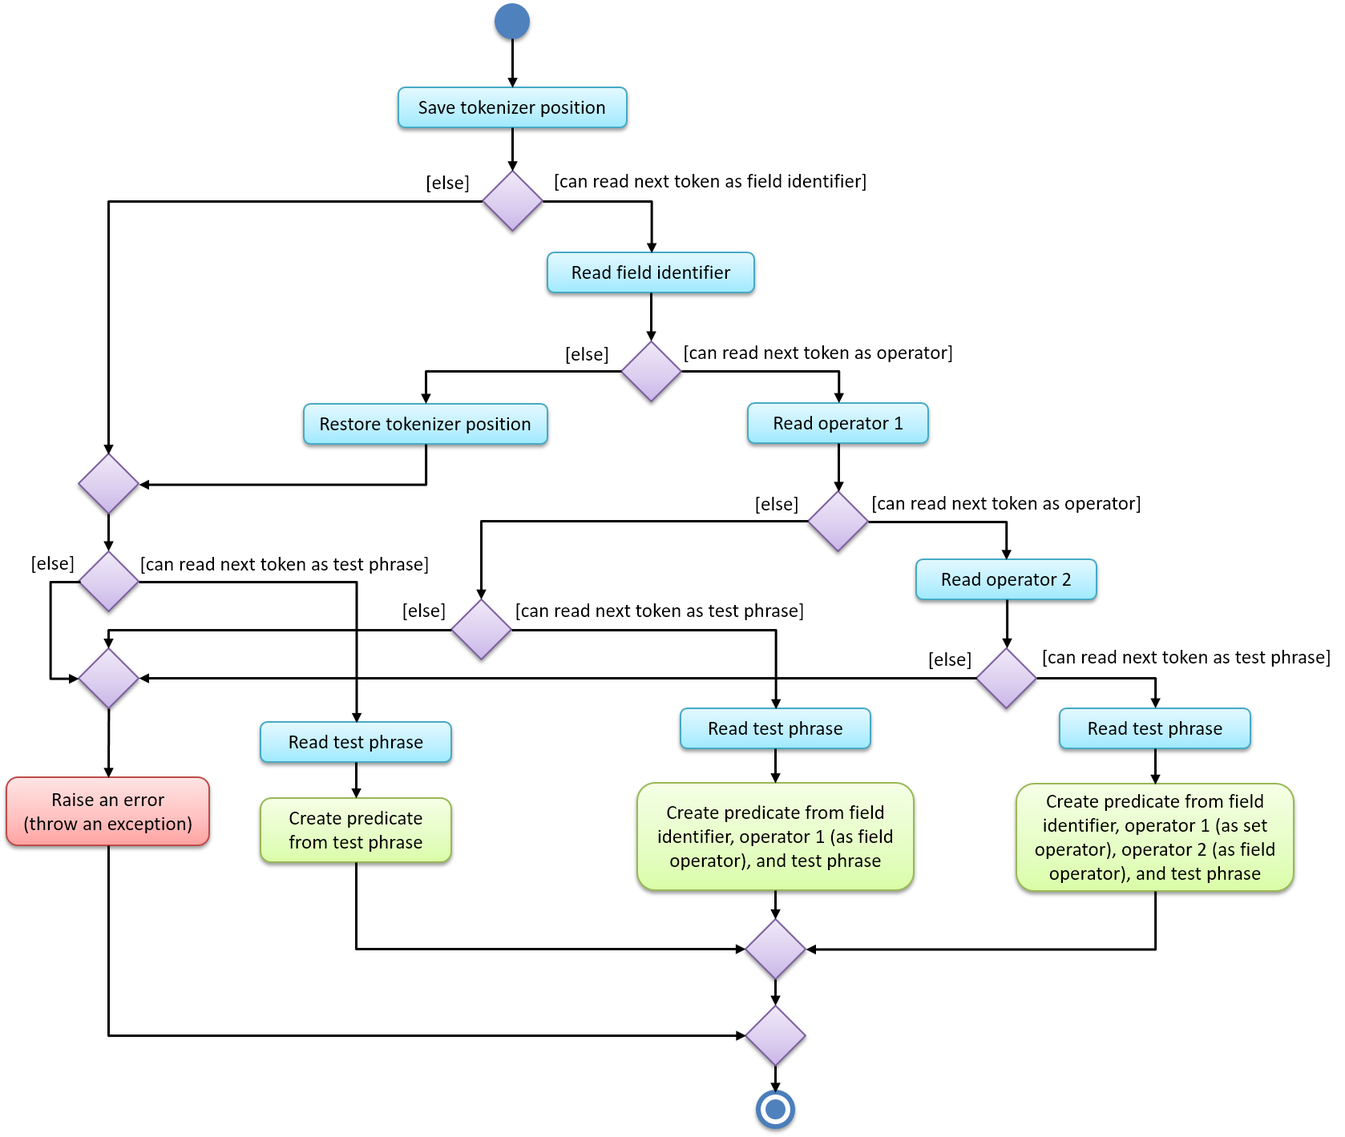
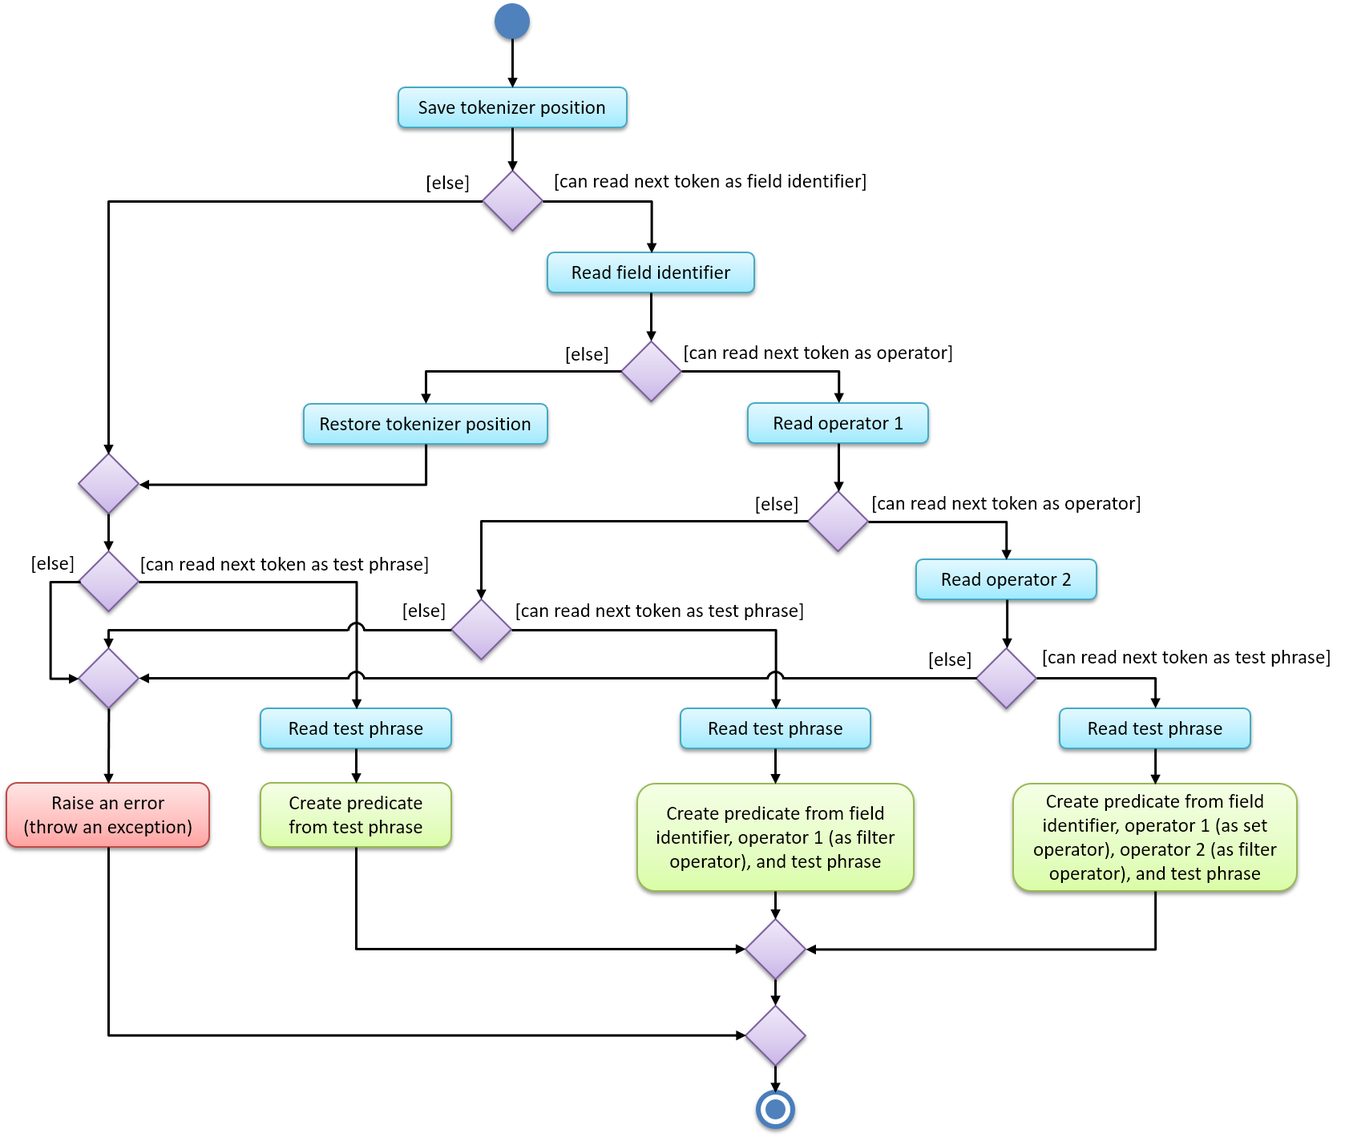
Rebuild pages at 355f86e717731fc7a78a83dbf8b46f0d04fe23be

diff --git a/DeveloperGuide.html b/DeveloperGuide.html
@@ -922,6 +922,7 @@ If the <code>currentStatePointer</code> is at index 0, pointing to the initial d
 <div class="content">
 <img src="images/UndoRedoSequenceDiagram.png" alt="UndoRedoSequenceDiagram" width="800">
 </div>
+<div class="title">Figure 10. Sequence diagram for <code>undo</code></div>
 </div>
 <div class="paragraph">
 <p>The <code>redo</code> command does the opposite&#8201;&#8212;&#8201;it calls <code>Model#redoTaskCollection()</code>, which shifts the <code>currentStatePointer</code> once to the right, pointing to the previously undone state, and restores the deadline manager to that state.</p>
@@ -961,6 +962,7 @@ If the <code>currentStatePointer</code> is at index <code>taskCollectionStateLis
 <div class="content">
 <img src="images/UndoRedoActivityDiagram.png" alt="UndoRedoActivityDiagram" width="650">
 </div>
+<div class="title">Figure 11. Activity diagram when a command is executed</div>
 </div>
 </div>
 <div class="sect3">
@@ -1170,6 +1172,7 @@ It is the responsibility of the <code>Model</code> to feedback to the user in th
 <div class="content">
 <img src="images/ExportSequenceDiagram.png" alt="ExportSequenceDiagram" width="800">
 </div>
+<div class="title">Figure 12. Sequence diagram for exporting tasks</div>
 </div>
 <div class="paragraph">
 <p>Step 1. The user executes export to file <code>dataFile</code>. The export command calls ModelManager&#8217;s <code>exportTaskCollection</code>.</p>
@@ -1190,6 +1193,7 @@ It is the responsibility of the <code>Model</code> to feedback to the user in th
 <div class="content">
 <img src="images/ImportSequenceDiagram.png" alt="ImportSequenceDiagram" width="800">
 </div>
+<div class="title">Figure 13. Sequence diagram for importing tasks</div>
 </div>
 <div class="paragraph">
 <p>Step 1. The user executes import from file <code>dataFile</code>. The import command calls ModelManager&#8217;s <code>importTaskCollection</code>.</p>
@@ -1361,9 +1365,10 @@ A <code>NullPointerException</code> is raised in case the <code>SortCommand</cod
 <div class="content">
 <img src="images/SortOperationSequenceDiagram.png" alt="SortOperationSequenceDiagram" width="800">
 </div>
+<div class="title">Figure 14. Sequence diagram for <code>sort</code> command</div>
 </div>
 <div class="paragraph">
-<p>Figure 10 illustrates the sequence diagram for Sort Command</p>
+<p>The above sequence diagram illustrates the Sort Command</p>
 </div>
 <div class="paragraph">
 <p>Step 4. The <code>SortCommand</code> calls the <code>updateSortedTaskList</code> API method of <code>ModelManager</code></p>
@@ -1540,6 +1545,7 @@ The second component in the list above also accepts a filter unit that contains 
 <div class="content">
 <img src="images/FilterOperationSequenceDiagram.png" alt="FilterOperationSequenceDiagram" width="800">
 </div>
+<div class="title">Figure 15. Sequence diagram for parsing a filter command (for non-set-based fields)</div>
 </div>
 <div class="paragraph">
 <p>The above diagram shows the simplified sequence of operations to parse a filter expression into a predicate for non-set-based fields.  Take note of the following simplifications in the sequence diagram above:</p>
@@ -1704,6 +1710,7 @@ The <code>StringTokenizer</code> class is also used in two other places&#8201;&#
 <div class="content">
 <img src="images/FilterUnitDiagram.png" alt="FilterUnitDiagram" width="200">
 </div>
+<div class="title">Figure 16. Structure of a filter unit that uses the full syntax</div>
 </div>
 <div class="paragraph">
 <p>The following diagram is describes a filter unit that is specified using the extended full syntax for sets:</p>
@@ -1712,6 +1719,7 @@ The <code>StringTokenizer</code> class is also used in two other places&#8201;&#
 <div class="content">
 <img src="images/FilterUnitDiagramSet.png" alt="FilterUnitDiagramSet" width="250">
 </div>
+<div class="title">Figure 17. Structure of a filter unit that uses the extended full syntax for sets</div>
 </div>
 <div class="paragraph">
 <p>As shown in the diagram above, a filter unit (using the full syntax or extended syntax) consists of these parts:</p>
@@ -1751,6 +1759,7 @@ The simplified syntax only contains the test phrase, and is explained in a separ
 <div class="content">
 <img src="images/FilterUnitActivityDiagram.png" alt="FilterUnitActivityDiagram" width="800">
 </div>
+<div class="title">Figure 18. Activity diagram for parsing a filter unit</div>
 </div>
 <div class="paragraph">
 <p>The above diagram demonstrates how each of the three possible ways are distinguished.  Note that in the diagram above:</p>
@@ -1764,7 +1773,7 @@ The simplified syntax only contains the test phrase, and is explained in a separ
 <p>A non-quoted test phrase only allows alphanumeric characters and the characters <code>_</code>, <code>-</code>, <code>/</code>, <code>\</code>, <code>,</code>, and <code>.</code>.  (The <code>/</code> character allows dates to work, and the <code>,</code> character allows tag lists to work.)  The string tokenizer provides the bindings to facilitate this check.  If other characters are required, then the test phrase must be placed in quotes (either single or double quotes are acceptable, but they must match).</p>
 </li>
 <li>
-<p>An operator (both the field and set operators) only matches <code>&lt;</code>, <code>=</code>, <code>&gt;</code>, and <code>:</code>.</p>
+<p>An operator (both the filter operator and set operator) only matches <code>&lt;</code>, <code>=</code>, <code>&gt;</code>, and <code>:</code>.</p>
 </li>
 <li>
 <p>The "save tokenizer position" action saves the current read position (of the string tokenizer) into a local variable, so that the position may be restored (thus "rewinding" the string tokenizer) if the "restore tokenizer position" action is encountered.</p>
@@ -1958,6 +1967,7 @@ The set operator is orthogonal to the filter operator, and hence they may be com
 <div class="content">
 <img src="images/FilterOperationSequenceDiagramSet.png" alt="FilterOperationSequenceDiagramSet" width="800">
 </div>
+<div class="title">Figure 19. Sequence diagram for parsing a filter command (for set-based fields)</div>
 </div>
 <div class="paragraph">
 <p>As with the sequence diagram for non-set-based fields, the above diagram is simplified and omits details about how the test phrase is split into tokens using a new <code>StringTokenizer</code> instance.  "Field" represents any filterable set-based field&#8201;&#8212;&#8201;<code>Tag</code> or <code>Attachment</code>.</p>
@@ -2014,9 +2024,10 @@ Priority values do not compare in the same order as their values as integers.  P
 <div class="content">
 <img src="images/FilterParserErrorInheritanceDiagram.png" alt="FilterParserErrorInheritanceDiagram" width="800">
 </div>
+<div class="title">Figure 20. Inheritance tree for exceptions that may be thrown from parsing a filter expression</div>
 </div>
 <div class="paragraph">
-<p>In the diagram above, the blue classes are exceptions thrown by <code>StringTokenizer</code>, while the red classes are exceptions thrown by <code>BooleanExpressionParser</code>.  In order to reduce coupling between <code>StringTokenizer</code> and <code>BooleanExpressionParser</code>, and to be able to distinguish (by type-based <code>catch</code> clauses) the end-of-string exceptions of those components, they do not shared the same class for end-of-string exceptions.</p>
+<p>In the diagram above, the <span class="blue"><strong>blue</strong></span> classes are exceptions thrown by <code>StringTokenizer</code>, while the <span class="red"><strong>red</strong></span> classes are exceptions thrown by <code>BooleanExpressionParser</code>.  In order to reduce coupling between <code>StringTokenizer</code> and <code>BooleanExpressionParser</code>, and to be able to distinguish (by type-based <code>catch</code> clauses) the end-of-string exceptions of those components, they do not shared the same class for end-of-string exceptions.</p>
 </div>
 <div class="paragraph">
 <p><code>TokenizationInvalidPredicateException</code> is a wrapper class for <code>InvalidPredicateException</code>, which is thrown when the field-specific parser or set parser encounters an error.  The diagram below shows the different exceptions that may be thrown to indicate the types of issues that may be encountered when parsing a filter unit, and how they may be propagated to <code>FilterCommandParser</code> via wrapping by <code>TokenizationInvalidPredicateException</code>:</p>
@@ -2025,6 +2036,7 @@ Priority values do not compare in the same order as their values as integers.  P
 <div class="content">
 <img src="images/FilterParserErrorPredicateInheritanceDiagram.png" alt="FilterParserErrorPredicateInheritanceDiagram" width="500">
 </div>
+<div class="title">Figure 21. Inheritance tree for exceptions that may be thrown from parsing a filter unit</div>
 </div>
 <div class="paragraph">
 <p>The filter unit parser is responsible for constructing a <code>TokenizationInvalidPredicateException</code> from any thrown <code>InvalidPredicateException</code> and associating the <code>TokenizationInvalidPredicateException</code> with the offending character range (which will be one of the three parts (or four, if using the extended set syntax) of the filter unit).</p>
@@ -2085,24 +2097,24 @@ In total, there are around 15 distinct kinds of error conditions when parsing a 
 <div class="ulist">
 <ul>
 <li>
-<p><strong>Alternative 1 (current choice):</strong> Support simplified filter semantics (implicit-AND and any-match).</p>
+<p><strong>Alternative 1 (current choice):</strong> Support simplified filter semantics (implicitly inserting <code>&amp;</code> between adjacent predicates, and the simplified filter unit syntax).</p>
 <div class="ulist">
 <ul>
 <li>
 <p>Pros: Reduces cognitive overhead and typing time for most common cases, and makes <code>filter</code> feel like a standard keyword search function.</p>
 </li>
 <li>
-<p>Cons: Not possible to detect when user accidentally omits the boolean operator or filter field.</p>
+<p>Cons: It is not possible to detect when user accidentally omits the boolean operator or filter field, so the displayed tasks may not be what the user intended to view.</p>
 </li>
 </ul>
 </div>
 </li>
 <li>
-<p><strong>Alternative 2:</strong> Only support the unsimplified version.</p>
+<p><strong>Alternative 2:</strong> Only support the unsimplified semantics.</p>
 <div class="ulist">
 <ul>
 <li>
-<p>Pros: Easier to implement, can display an error if the user accidentally omits a boolean operator or filter field.</p>
+<p>Pros: Easier to implement because there are less cases to consider.  Also, we can display an error if the user accidentally omits a boolean operator or field identifier.</p>
 </li>
 <li>
 <p>Cons: More verbose filter expressions which may require higher cognitive overhead.</p>
@@ -2143,6 +2155,19 @@ In total, there are around 15 distinct kinds of error conditions when parsing a 
 </ul>
 </div>
 </li>
+<li>
+<p><strong>Alternative 3:</strong> Don&#8217;t support the convenience operator at all.</p>
+<div class="ulist">
+<ul>
+<li>
+<p>Pros: Least amount of implementation work.</p>
+</li>
+<li>
+<p>Cons: Additional cognitive overhead as users need to figure out which of the available operators they actually want.</p>
+</li>
+</ul>
+</div>
+</li>
 </ul>
 </div>
 </div>
@@ -2158,7 +2183,7 @@ In total, there are around 15 distinct kinds of error conditions when parsing a 
 <p>Pros: Every possible failure condition is listed in the <code>throws</code> clause of all methods&#8201;&#8212;&#8201;developers can easily tell how exactly each aspect of parsing could fail, and Java will statically check that every possible failure condition is handled (which makes it impossible to overlook any failure conditions).</p>
 </li>
 <li>
-<p>Cons: Method signatures are more verbose.</p>
+<p>Cons: More verbose method signatures.</p>
 </li>
 </ul>
 </div>
@@ -2184,7 +2209,7 @@ In total, there are around 15 distinct kinds of error conditions when parsing a 
 <p>Pros: Simplest method signatures.</p>
 </li>
 <li>
-<p>Cons: Easy to overlook possible failure conditions when modifying the code.</p>
+<p>Cons: Easy to overlook possible failure conditions when modifying the code, so future developers might inadvertently introduce bugs.</p>
 </li>
 </ul>
 </div>
@@ -2229,7 +2254,7 @@ In total, there are around 15 distinct kinds of error conditions when parsing a 
 <div class="content">
 <img src="images/AttachmentExecuteSequenceDiagram.png" alt="AttachmentExecuteSequenceDiagram" width="800">
 </div>
-<div class="title">Figure 10. Sequence Diagram for performing the <code>execute</code> method of an <code>AttachmentCommand</code>.</div>
+<div class="title">Figure 22. Sequence Diagram for performing the <code>execute</code> method of an <code>AttachmentCommand</code>.</div>
 </div>
 <div class="paragraph">
 <p>Step 1. The task identified by the user is retrieved from the <code>Model</code>.</p>
@@ -2556,7 +2581,7 @@ Alternatively, you can download the AsciiDoc plugin for IntelliJ, which allows y
 <div class="content">
 <img src="images/chrome_save_as_pdf.png" alt="chrome save as pdf" width="300">
 </div>
-<div class="title">Figure 11. Saving documentation as PDF files in Chrome</div>
+<div class="title">Figure 23. Saving documentation as PDF files in Chrome</div>
 </div>
 </div>
 <div class="sect2">
@@ -4132,4 +4157,4 @@ Expected: Error details saying that <code>nothere.txt</code> is not an attachmen
 </div>
 </div>
 </div>
-</div></div><div id="footer"><div class="container"><div id="footer-text">Last updated 2018-11-11 07:45:38 UTC</div></div></div></body></html>
+</div></div><div id="footer"><div class="container"><div id="footer-text">Last updated 2018-11-11 08:14:29 UTC</div></div></div></body></html>

diff --git a/team/btzy.html b/team/btzy.html
@@ -421,6 +421,7 @@ The second component in the list above also accepts a filter unit that contains 
 <div class="content">
 <img src="../images/FilterOperationSequenceDiagram.png" alt="FilterOperationSequenceDiagram" width="800">
 </div>
+<div class="title">Figure 1. Sequence diagram for parsing a filter command (for non-set-based fields)</div>
 </div>
 <div class="paragraph">
 <p>The above diagram shows the simplified sequence of operations to parse a filter expression into a predicate for non-set-based fields.  Take note of the following simplifications in the sequence diagram above:</p>
@@ -487,6 +488,7 @@ The second component in the list above also accepts a filter unit that contains 
 <div class="content">
 <img src="../images/FilterUnitDiagram.png" alt="FilterUnitDiagram" width="200">
 </div>
+<div class="title">Figure 2. Structure of a filter unit that uses the full syntax</div>
 </div>
 <div class="paragraph">
 <p>The following diagram is describes a filter unit that is specified using the extended full syntax for sets:</p>
@@ -495,6 +497,7 @@ The second component in the list above also accepts a filter unit that contains 
 <div class="content">
 <img src="../images/FilterUnitDiagramSet.png" alt="FilterUnitDiagramSet" width="250">
 </div>
+<div class="title">Figure 3. Structure of a filter unit that uses the extended full syntax for sets</div>
 </div>
 <div class="paragraph">
 <p>As shown in the diagram above, a filter unit (using the full syntax or extended syntax) consists of these parts:</p>
@@ -534,6 +537,7 @@ The simplified syntax only contains the test phrase, and is explained in a separ
 <div class="content">
 <img src="../images/FilterUnitActivityDiagram.png" alt="FilterUnitActivityDiagram" width="800">
 </div>
+<div class="title">Figure 4. Activity diagram for parsing a filter unit</div>
 </div>
 <table class="tableblock frame-all grid-all spread">
 <colgroup>
@@ -578,6 +582,19 @@ The simplified syntax only contains the test phrase, and is explained in a separ
 </ul>
 </div>
 </li>
+<li>
+<p><strong>Alternative 3:</strong> Don&#8217;t support the convenience operator at all.</p>
+<div class="ulist">
+<ul>
+<li>
+<p>Pros: Least amount of implementation work.</p>
+</li>
+<li>
+<p>Cons: Additional cognitive overhead as users need to figure out which of the available operators they actually want.</p>
+</li>
+</ul>
+</div>
+</li>
 </ul>
 </div>
 </div>
@@ -593,7 +610,7 @@ The simplified syntax only contains the test phrase, and is explained in a separ
 <p>Pros: Every possible failure condition is listed in the <code>throws</code> clause of all methods&#8201;&#8212;&#8201;developers can easily tell how exactly each aspect of parsing could fail, and Java will statically check that every possible failure condition is handled (which makes it impossible to overlook any failure conditions).</p>
 </li>
 <li>
-<p>Cons: Method signatures are more verbose.</p>
+<p>Cons: More verbose method signatures.</p>
 </li>
 </ul>
 </div>
@@ -619,7 +636,7 @@ The simplified syntax only contains the test phrase, and is explained in a separ
 <p>Pros: Simplest method signatures.</p>
 </li>
 <li>
-<p>Cons: Easy to overlook possible failure conditions when modifying the code.</p>
+<p>Cons: Easy to overlook possible failure conditions when modifying the code, so future developers might inadvertently introduce bugs.</p>
 </li>
 </ul>
 </div>
@@ -640,4 +657,4 @@ The simplified syntax only contains the test phrase, and is explained in a separ
 </div>
 </div>
 </div>
-</div></div><div id="footer"><div class="container"><div id="footer-text">Last updated 2018-11-11 07:45:38 UTC</div></div></div></body></html>
+</div></div><div id="footer"><div class="container"><div id="footer-text">Last updated 2018-11-11 08:14:29 UTC</div></div></div></body></html>

diff --git a/team/johndoe.html b/team/johndoe.html
@@ -339,6 +339,7 @@ If the <code>currentStatePointer</code> is at index 0, pointing to the initial d
 <div class="content">
 <img src="../images/UndoRedoSequenceDiagram.png" alt="UndoRedoSequenceDiagram" width="800">
 </div>
+<div class="title">Figure 1. Sequence diagram for <code>undo</code></div>
 </div>
 <div class="paragraph">
 <p>The <code>redo</code> command does the opposite&#8201;&#8212;&#8201;it calls <code>Model#redoTaskCollection()</code>, which shifts the <code>currentStatePointer</code> once to the right, pointing to the previously undone state, and restores the deadline manager to that state.</p>
@@ -378,6 +379,7 @@ If the <code>currentStatePointer</code> is at index <code>taskCollectionStateLis
 <div class="content">
 <img src="../images/UndoRedoActivityDiagram.png" alt="UndoRedoActivityDiagram" width="650">
 </div>
+<div class="title">Figure 2. Activity diagram when a command is executed</div>
 </div>
 </div>
 <div class="sect3">
@@ -460,4 +462,4 @@ If the <code>currentStatePointer</code> is at index <code>taskCollectionStateLis
 <p><em>{Optionally, you may include other projects in your portfolio.}</em></p>
 </div>
 </div>
-</div></div><div id="footer"><div class="container"><div id="footer-text">Last updated 2018-11-11 07:45:38 UTC</div></div></div></body></html>
+</div></div><div id="footer"><div class="container"><div id="footer-text">Last updated 2018-11-11 08:14:29 UTC</div></div></div></body></html>

diff --git a/team/sijie123.html b/team/sijie123.html
@@ -582,6 +582,7 @@ It is the responsibility of the <code>Model</code> to feedback to the user in th
 <div class="content">
 <img src="../images/ExportSequenceDiagram.png" alt="ExportSequenceDiagram" width="800">
 </div>
+<div class="title">Figure 1. Sequence diagram for exporting tasks</div>
 </div>
 <div class="paragraph">
 <p>Step 1. The user executes export to file <code>dataFile</code>. The export command calls ModelManager&#8217;s <code>exportTaskCollection</code>.</p>
@@ -602,6 +603,7 @@ It is the responsibility of the <code>Model</code> to feedback to the user in th
 <div class="content">
 <img src="../images/ImportSequenceDiagram.png" alt="ImportSequenceDiagram" width="800">
 </div>
+<div class="title">Figure 2. Sequence diagram for importing tasks</div>
 </div>
 <div class="paragraph">
 <p>Step 1. The user executes import from file <code>dataFile</code>. The import command calls ModelManager&#8217;s <code>importTaskCollection</code>.</p>
@@ -723,4 +725,4 @@ If the user attempts to import a new task that conflicts with an existing task, 
 </div>
 </div>
 </div>
-</div></div><div id="footer"><div class="container"><div id="footer-text">Last updated 2018-11-11 07:45:38 UTC</div></div></div></body></html>
+</div></div><div id="footer"><div class="container"><div id="footer-text">Last updated 2018-11-11 08:14:29 UTC</div></div></div></body></html>

diff --git a/team/sidhant007.html b/team/sidhant007.html
@@ -464,9 +464,10 @@ A <code>NullPointerException</code> is raised in case the <code>SortCommand</cod
 <div class="content">
 <img src="../images/SortOperationSequenceDiagram.png" alt="SortOperationSequenceDiagram" width="800">
 </div>
+<div class="title">Figure 1. Sequence diagram for <code>sort</code> command</div>
 </div>
 <div class="paragraph">
-<p>Figure 10 illustrates the sequence diagram for Sort Command</p>
+<p>The above sequence diagram illustrates the Sort Command</p>
 </div>
 <div class="paragraph">
 <p>Step 4. The <code>SortCommand</code> calls the <code>updateSortedTaskList</code> API method of <code>ModelManager</code></p>
@@ -546,4 +547,4 @@ A <code>NullPointerException</code> is raised in case the <code>SortCommand</cod
 </div>
 </div>
 </div>
-</div></div><div id="footer"><div class="container"><div id="footer-text">Last updated 2018-11-11 07:45:38 UTC</div></div></div></body></html>
+</div></div><div id="footer"><div class="container"><div id="footer-text">Last updated 2018-11-11 08:14:29 UTC</div></div></div></body></html>

diff --git a/ContactUs.html b/ContactUs.html
@@ -12,4 +12,4 @@
 <p><strong>Email us</strong> : You can also reach us at <code>damith [at] comp.nus.edu.sg</code></p>
 </li>
 </ul>
-</div></div><div id="footer"><div class="container"><div id="footer-text">Last updated 2018-11-11 07:45:38 UTC</div></div></div></body></html>
+</div></div><div id="footer"><div class="container"><div id="footer-text">Last updated 2018-11-11 08:14:29 UTC</div></div></div></body></html>

diff --git a/LearningOutcomes.html b/LearningOutcomes.html
@@ -542,4 +542,4 @@ class gives some examples of how to use <em>Equivalence Partitions</em>, <em>Bou
 </div>
 </div>
 </div>
-</div></div><div id="footer"><div class="container"><div id="footer-text">Last updated 2018-11-11 07:45:38 UTC</div></div></div></body></html>
+</div></div><div id="footer"><div class="container"><div id="footer-text">Last updated 2018-11-11 08:14:29 UTC</div></div></div></body></html>

diff --git a/team/ranaldmiao.html b/team/ranaldmiao.html
@@ -523,4 +523,4 @@ Lists all attachments currently associated with the 1st task in the deadline man
 </div>
 </div>
 </div>
-</div></div><div id="footer"><div class="container"><div id="footer-text">Last updated 2018-11-11 07:45:38 UTC</div></div></div></body></html>
+</div></div><div id="footer"><div class="container"><div id="footer-text">Last updated 2018-11-11 08:14:29 UTC</div></div></div></body></html>

diff --git a/UsingGradle.html b/UsingGradle.html
@@ -255,4 +255,4 @@ See <code>build.gradle</code> &#8594; <code>allprojects</code> &#8594; <code>dep
 </ul>
 </div>
 </div>
-</div></div><div id="footer"><div class="container"><div id="footer-text">Last updated 2018-11-11 07:45:38 UTC</div></div></div></body></html>
+</div></div><div id="footer"><div class="container"><div id="footer-text">Last updated 2018-11-11 08:14:29 UTC</div></div></div></body></html>

diff --git a/UsingNetlify.html b/UsingNetlify.html
@@ -123,4 +123,4 @@ The publish directory is the directory in which the built HTML documentation res
 </ol>
 </div>
 </div>
-</div></div><div id="footer"><div class="container"><div id="footer-text">Last updated 2018-11-11 07:45:38 UTC</div></div></div></body></html>
+</div></div><div id="footer"><div class="container"><div id="footer-text">Last updated 2018-11-11 08:14:29 UTC</div></div></div></body></html>

diff --git a/UsingCoveralls.html b/UsingCoveralls.html
@@ -96,4 +96,4 @@ If you have not set up Travis CI, see <a href="UsingTravis.html">UsingTravis.ado
 </ol>
 </div>
 </div>
-</div></div><div id="footer"><div class="container"><div id="footer-text">Last updated 2018-11-11 07:45:38 UTC</div></div></div></body></html>
+</div></div><div id="footer"><div class="container"><div id="footer-text">Last updated 2018-11-11 08:14:29 UTC</div></div></div></body></html>

diff --git a/UsingTravis.html b/UsingTravis.html
@@ -280,4 +280,4 @@ Suggested change: Remove the codacy badge from <code>README</code>.</p>
 </div>
 </div>
 </div>
-</div></div><div id="footer"><div class="container"><div id="footer-text">Last updated 2018-11-11 07:45:38 UTC</div></div></div></body></html>
+</div></div><div id="footer"><div class="container"><div id="footer-text">Last updated 2018-11-11 08:14:29 UTC</div></div></div></body></html>
